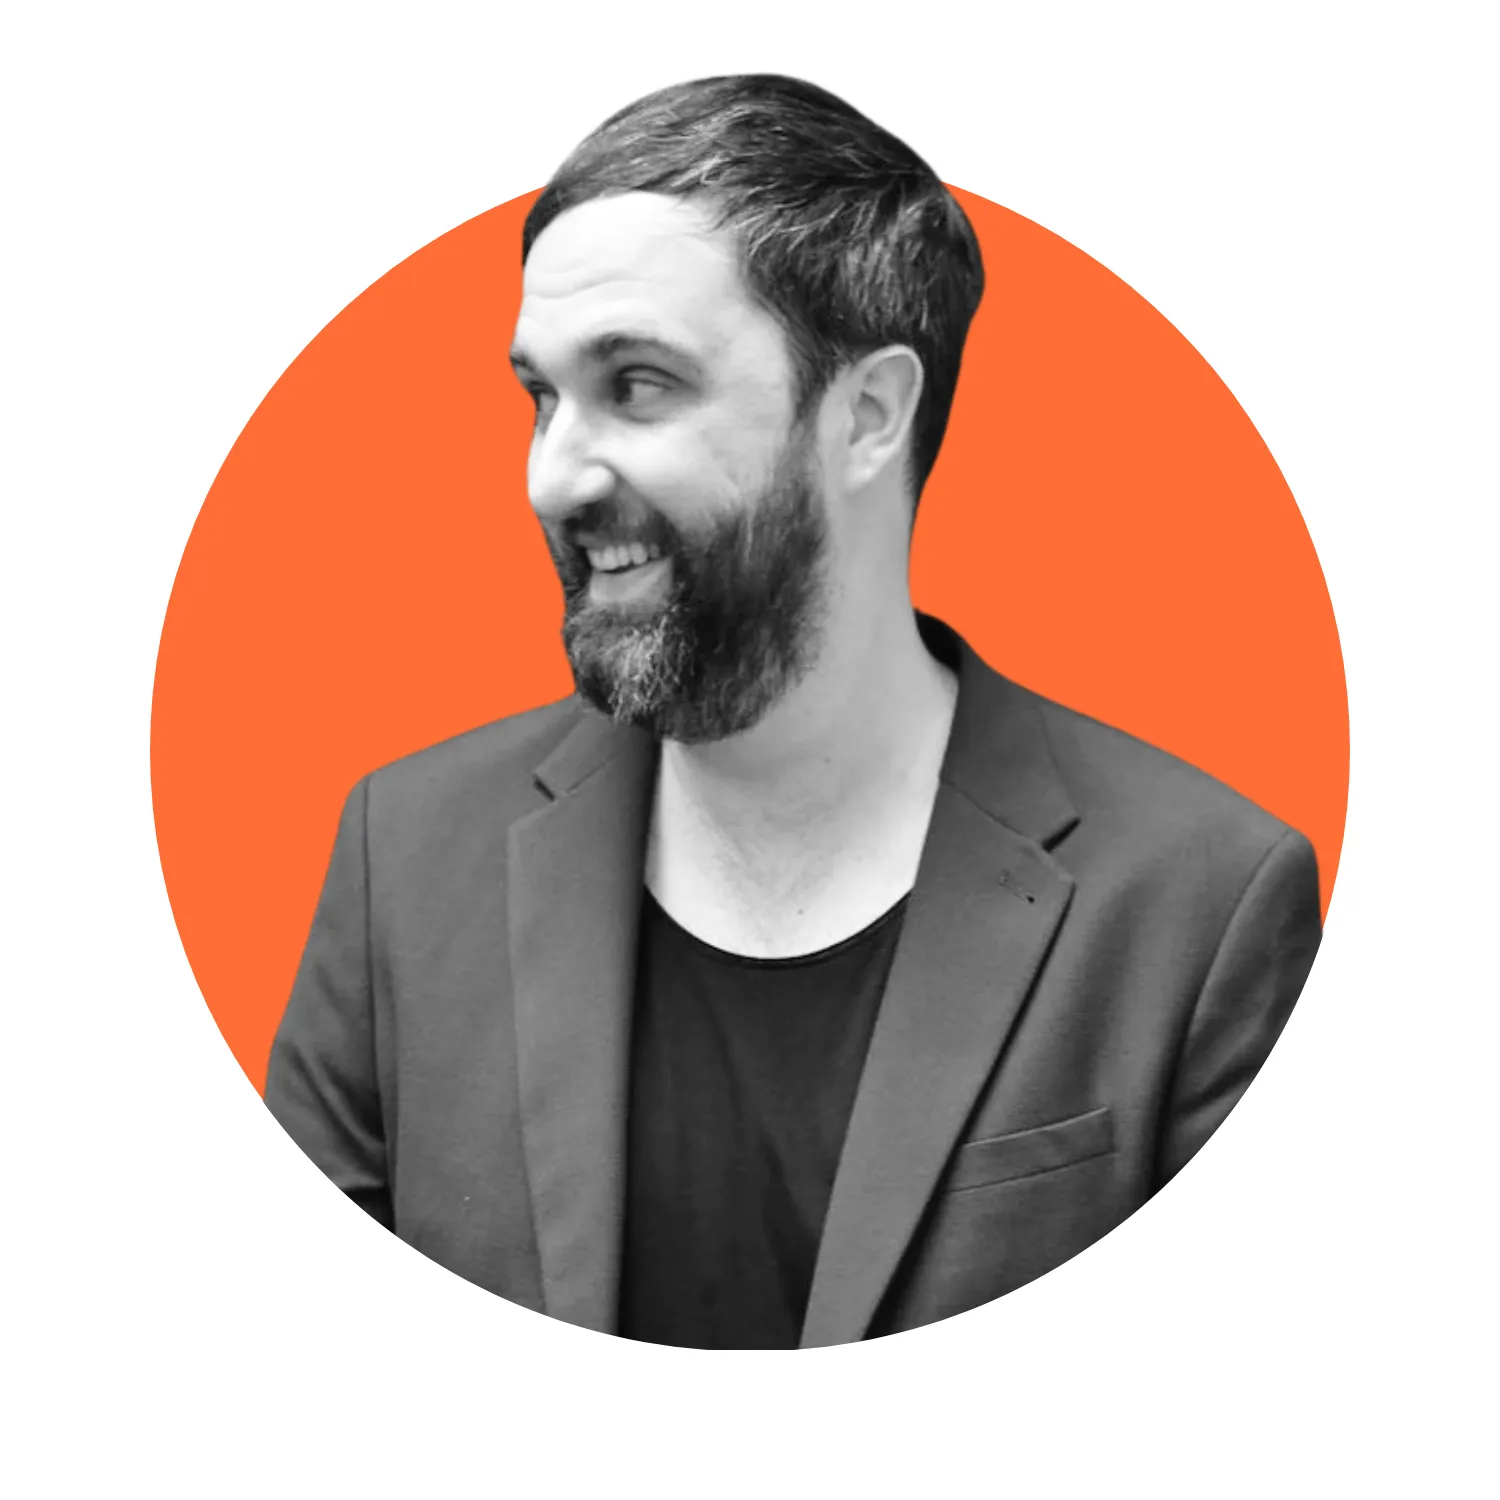
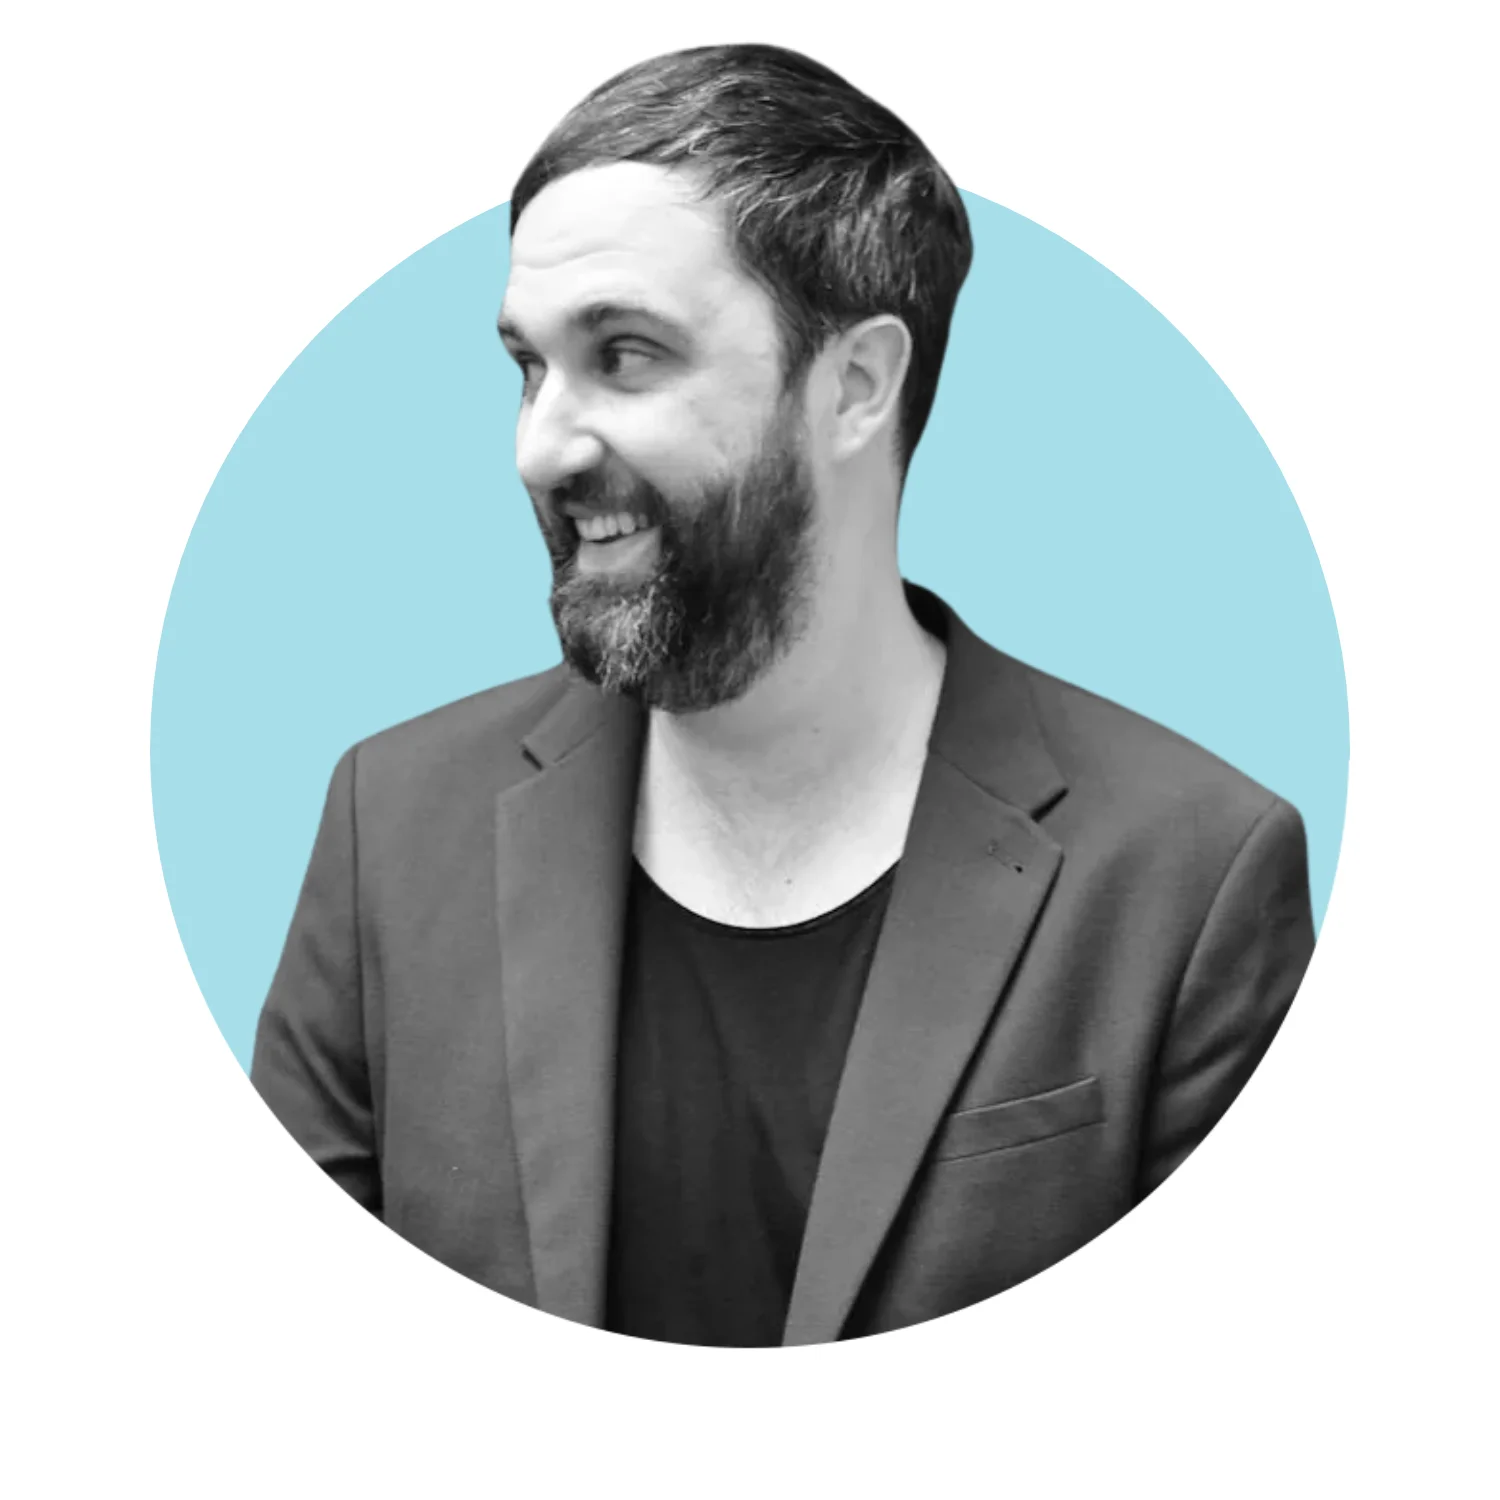
Update alumni

Changed region(s): [[0.092, 0.0307, 0.92, 0.92], [0.4293, 0.8893, 0.46, 0.92]]

diff --git a/index.html b/index.html
@@ -377,6 +377,19 @@
             <h3 class="section-title">ALUMNI</h3>
             <div class="cast-grid">
                 <div class="cast-card glass-card">
+                    <img src="assets/team/brian.webp" alt="Brian Bell" class="cast-img">
+                    <div class="cast-info">
+                        <h3>Brian Bell <span>(he/him)</span></h3>
+                        <span class="role">Show Director 2023-2026</span>
+                        <div class="social-links" style="justify-content: center; margin-top: 1rem;">
+                            <a href="https://www.brianbell.org/" target="_blank" rel="noopener noreferrer"
+                                class="social-btn" aria-label="Website">
+                                <i class="fa-solid fa-globe"></i>
+                            </a>
+                        </div>
+                    </div>
+                </div>
+                <div class="cast-card glass-card">
                     <img src="assets/team/caroline.webp" alt="Caroline Wiechers" class="cast-img">
                     <div class="cast-info">
                         <h3>Caroline Wiechers <span>(she/her)</span></h3>
